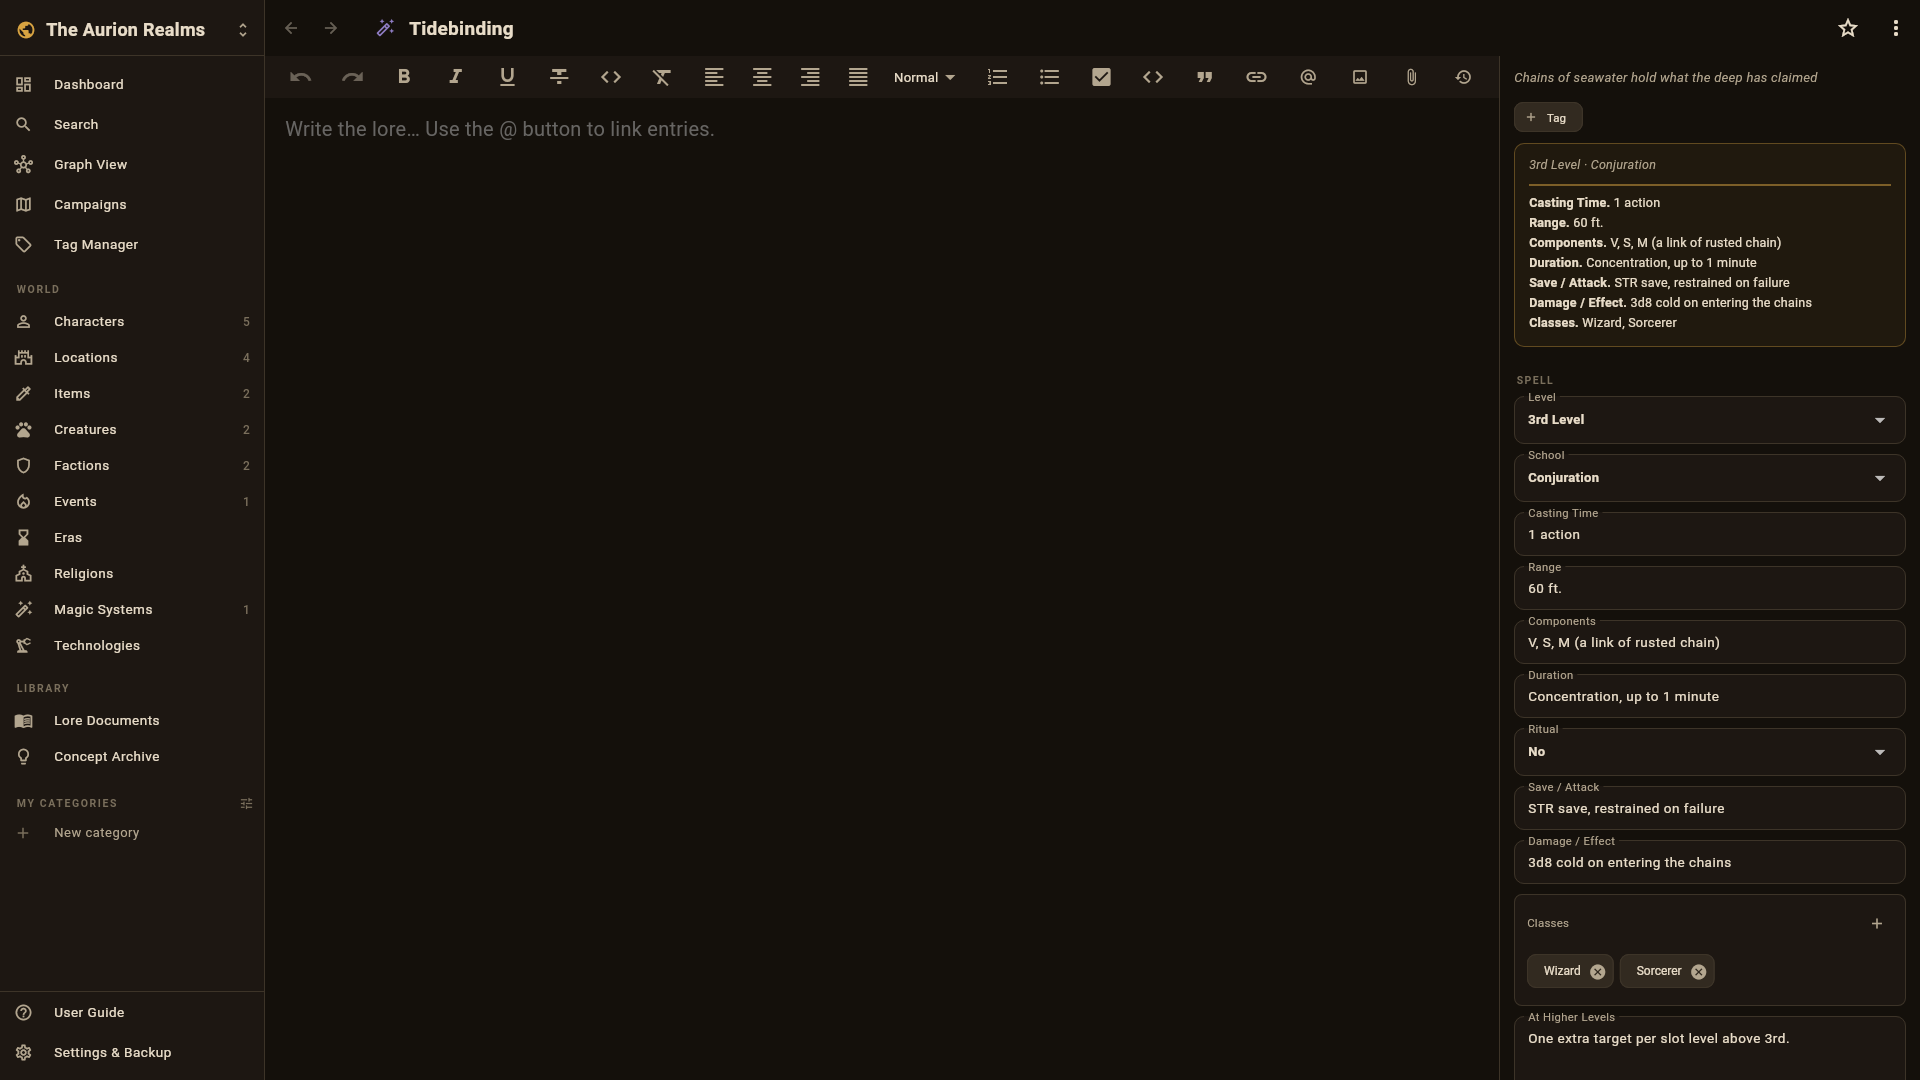
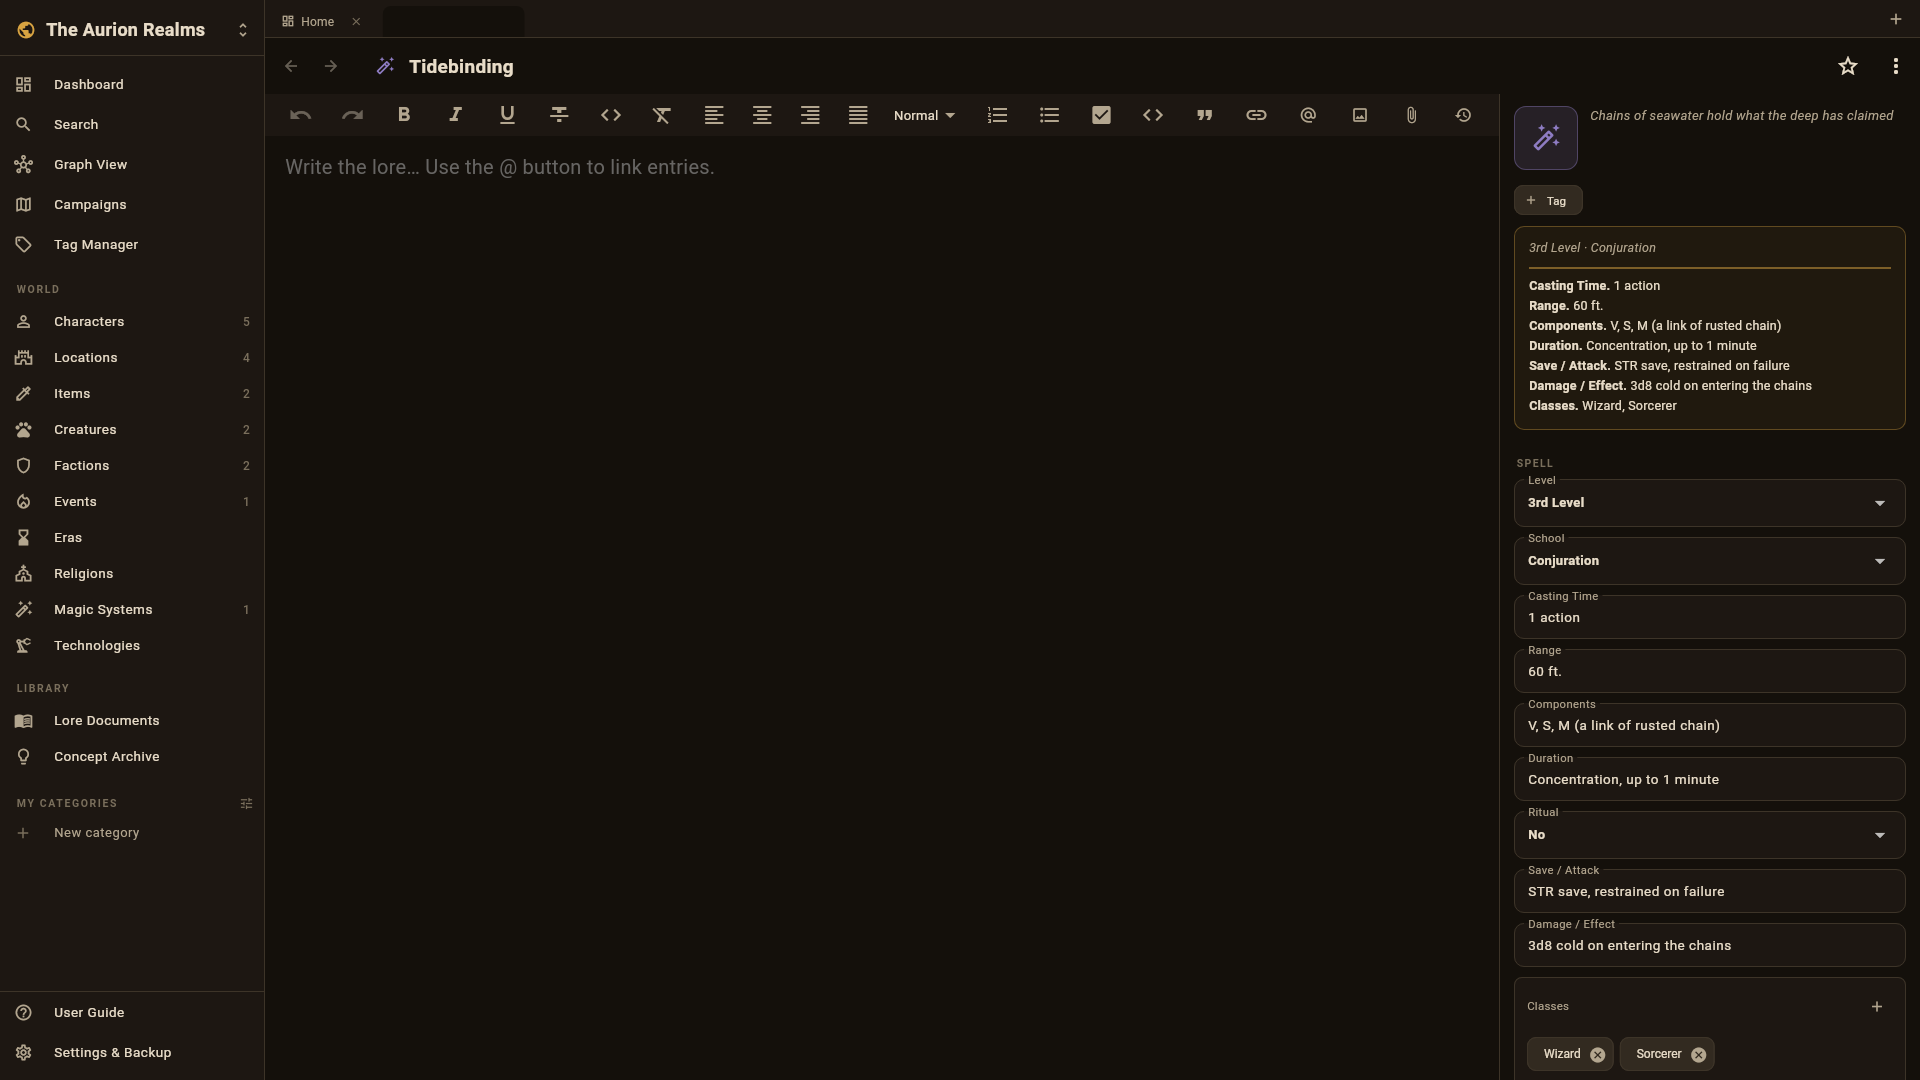
Fix blank active workspace tab: rounded box requires a uniform border
Flutter refuses to paint a BoxDecoration that combines borderRadius with
a non-uniform border, which left the active tab entirely unpainted. The
ember accent is now drawn as a separate top strip inside the tab.

diff --git a/lib/features/shell/tab_strip.dart b/lib/features/shell/tab_strip.dart
@@ -37,8 +37,10 @@ class WorkspaceTabStrip extends ConsumerWidget {
                 location: tabs.locations[index],
                 active: index == tabs.activeIndex,
                 onTap: () => controller.activate(index),
-                onClose: () => controller.close(index,
-                    fallbackLocation: Routes.home(worldId)),
+                onClose: () => controller.close(
+                  index,
+                  fallbackLocation: Routes.home(worldId),
+                ),
               ),
             ),
           ),
@@ -78,28 +80,29 @@ class _WorkspaceTab extends ConsumerWidget {
   /// Resolves a display icon + label for a location.
   (IconData, String) _describe(BuildContext context, WidgetRef ref) {
     final l = context.l10n;
-    final entityMatch =
-        RegExp(r'^/w/[^/]+/e/([^/]+)$').firstMatch(location);
+    final entityMatch = RegExp(r'^/w/[^/]+/e/([^/]+)$').firstMatch(location);
     if (entityMatch != null) {
-      final entity =
-          ref.watch(entityProvider(entityMatch.group(1)!)).valueOrNull;
+      final entity = ref
+          .watch(entityProvider(entityMatch.group(1)!))
+          .valueOrNull;
       if (entity == null) return (Icons.description_outlined, '…');
-      final categories =
-          ref.watch(categoryMapProvider(entity.worldId));
+      final categories = ref.watch(categoryMapProvider(entity.worldId));
       return (entityIcon(entity, categories), entity.name);
     }
-    final browseMatch =
-        RegExp(r'^/w/[^/]+/browse/([^/]+)$').firstMatch(location);
+    final browseMatch = RegExp(
+      r'^/w/[^/]+/browse/([^/]+)$',
+    ).firstMatch(location);
     if (browseMatch != null) {
       final kind = EntityKind.tryParse(browseMatch.group(1)!);
       if (kind != null) return (kind.icon, kind.localizedPlural(context));
     }
-    final categoryMatch =
-        RegExp(r'^/w/([^/]+)/category/([^/]+)$').firstMatch(location);
+    final categoryMatch = RegExp(
+      r'^/w/([^/]+)/category/([^/]+)$',
+    ).firstMatch(location);
     if (categoryMatch != null) {
       final category = ref.watch(
-          categoryMapProvider(categoryMatch.group(1)!))[
-          categoryMatch.group(2)!];
+        categoryMapProvider(categoryMatch.group(1)!),
+      )[categoryMatch.group(2)!];
       if (category != null) {
         return (categoryIconFor(category.icon), category.name);
       }
@@ -135,47 +138,59 @@ class _WorkspaceTab extends ConsumerWidget {
         borderRadius: const BorderRadius.vertical(top: Radius.circular(8)),
         child: Container(
           constraints: const BoxConstraints(maxWidth: 190),
-          padding: const EdgeInsets.only(left: 10, right: 2),
           decoration: BoxDecoration(
             color: active ? GmhColors.background : Colors.transparent,
-            borderRadius:
-                const BorderRadius.vertical(top: Radius.circular(8)),
-            border: active
-                ? Border(
-                    top: BorderSide(color: GmhColors.ember, width: 2),
-                    left: BorderSide(color: GmhColors.border),
-                    right: BorderSide(color: GmhColors.border),
-                  )
-                : null,
+            borderRadius: const BorderRadius.vertical(top: Radius.circular(8)),
+            // A rounded box only accepts a uniform border; the ember
+            // accent is painted separately as the strip below.
+            border: active ? Border.all(color: GmhColors.border) : null,
           ),
-          child: Row(
-            mainAxisSize: MainAxisSize.min,
+          clipBehavior: active ? Clip.antiAlias : Clip.none,
+          child: Stack(
             children: [
-              Icon(icon, size: 14, color: color),
-              const SizedBox(width: 6),
-              Flexible(
-                child: Text(
-                  label,
-                  maxLines: 1,
-                  overflow: TextOverflow.ellipsis,
-                  style: TextStyle(
-                    fontSize: 12,
-                    color: color,
-                    fontWeight:
-                        active ? FontWeight.w600 : FontWeight.w400,
-                  ),
+              Padding(
+                padding: const EdgeInsets.only(left: 10, right: 2),
+                child: Row(
+                  mainAxisSize: MainAxisSize.min,
+                  children: [
+                    Icon(icon, size: 14, color: color),
+                    const SizedBox(width: 6),
+                    Flexible(
+                      child: Text(
+                        label,
+                        maxLines: 1,
+                        overflow: TextOverflow.ellipsis,
+                        style: TextStyle(
+                          fontSize: 12,
+                          color: color,
+                          fontWeight: active
+                              ? FontWeight.w600
+                              : FontWeight.w400,
+                        ),
+                      ),
+                    ),
+                    const SizedBox(width: 2),
+                    IconButton(
+                      icon: const Icon(Icons.close, size: 13),
+                      color: GmhColors.parchmentFaint,
+                      visualDensity: VisualDensity.compact,
+                      constraints: const BoxConstraints(
+                        minWidth: 26,
+                        minHeight: 26,
+                      ),
+                      padding: EdgeInsets.zero,
+                      onPressed: onClose,
+                    ),
+                  ],
                 ),
               ),
-              const SizedBox(width: 2),
-              IconButton(
-                icon: const Icon(Icons.close, size: 13),
-                color: GmhColors.parchmentFaint,
-                visualDensity: VisualDensity.compact,
-                constraints:
-                    const BoxConstraints(minWidth: 26, minHeight: 26),
-                padding: EdgeInsets.zero,
-                onPressed: onClose,
-              ),
+              if (active)
+                Positioned(
+                  top: 0,
+                  left: 0,
+                  right: 0,
+                  child: Container(height: 2, color: GmhColors.ember),
+                ),
             ],
           ),
         ),

diff --git a/test/app/tab_strip_render_test.dart b/test/app/tab_strip_render_test.dart
@@ -1,0 +1,32 @@
+import 'package:flutter/material.dart';
+import 'package:flutter_riverpod/flutter_riverpod.dart';
+import 'package:flutter_test/flutter_test.dart';
+import 'package:gmh/app/l10n_ext.dart';
+import 'package:gmh/features/shell/tab_strip.dart';
+import 'package:gmh/features/shell/workspace_tabs.dart';
+
+void main() {
+  testWidgets('tab strip renders labels for section and entity tabs',
+      (tester) async {
+    final container = ProviderContainer();
+    addTearDown(container.dispose);
+    final tabs = container.read(workspaceTabsProvider.notifier);
+    tabs.navigate = (_) {};
+    tabs.onLocationChanged('/w/w1/home');
+    tabs.openInNewTab('/w/w1/browse/creature');
+
+    await tester.pumpWidget(UncontrolledProviderScope(
+      container: container,
+      child: MaterialApp(
+        locale: const Locale('en'),
+        supportedLocales: AppLocalizations.supportedLocales,
+        localizationsDelegates: AppLocalizations.localizationsDelegates,
+        home: const Scaffold(body: WorkspaceTabStrip(worldId: 'w1')),
+      ),
+    ));
+    await tester.pump();
+
+    expect(find.text('Home'), findsOneWidget);
+    expect(find.text('Creatures'), findsOneWidget);
+  });
+}
